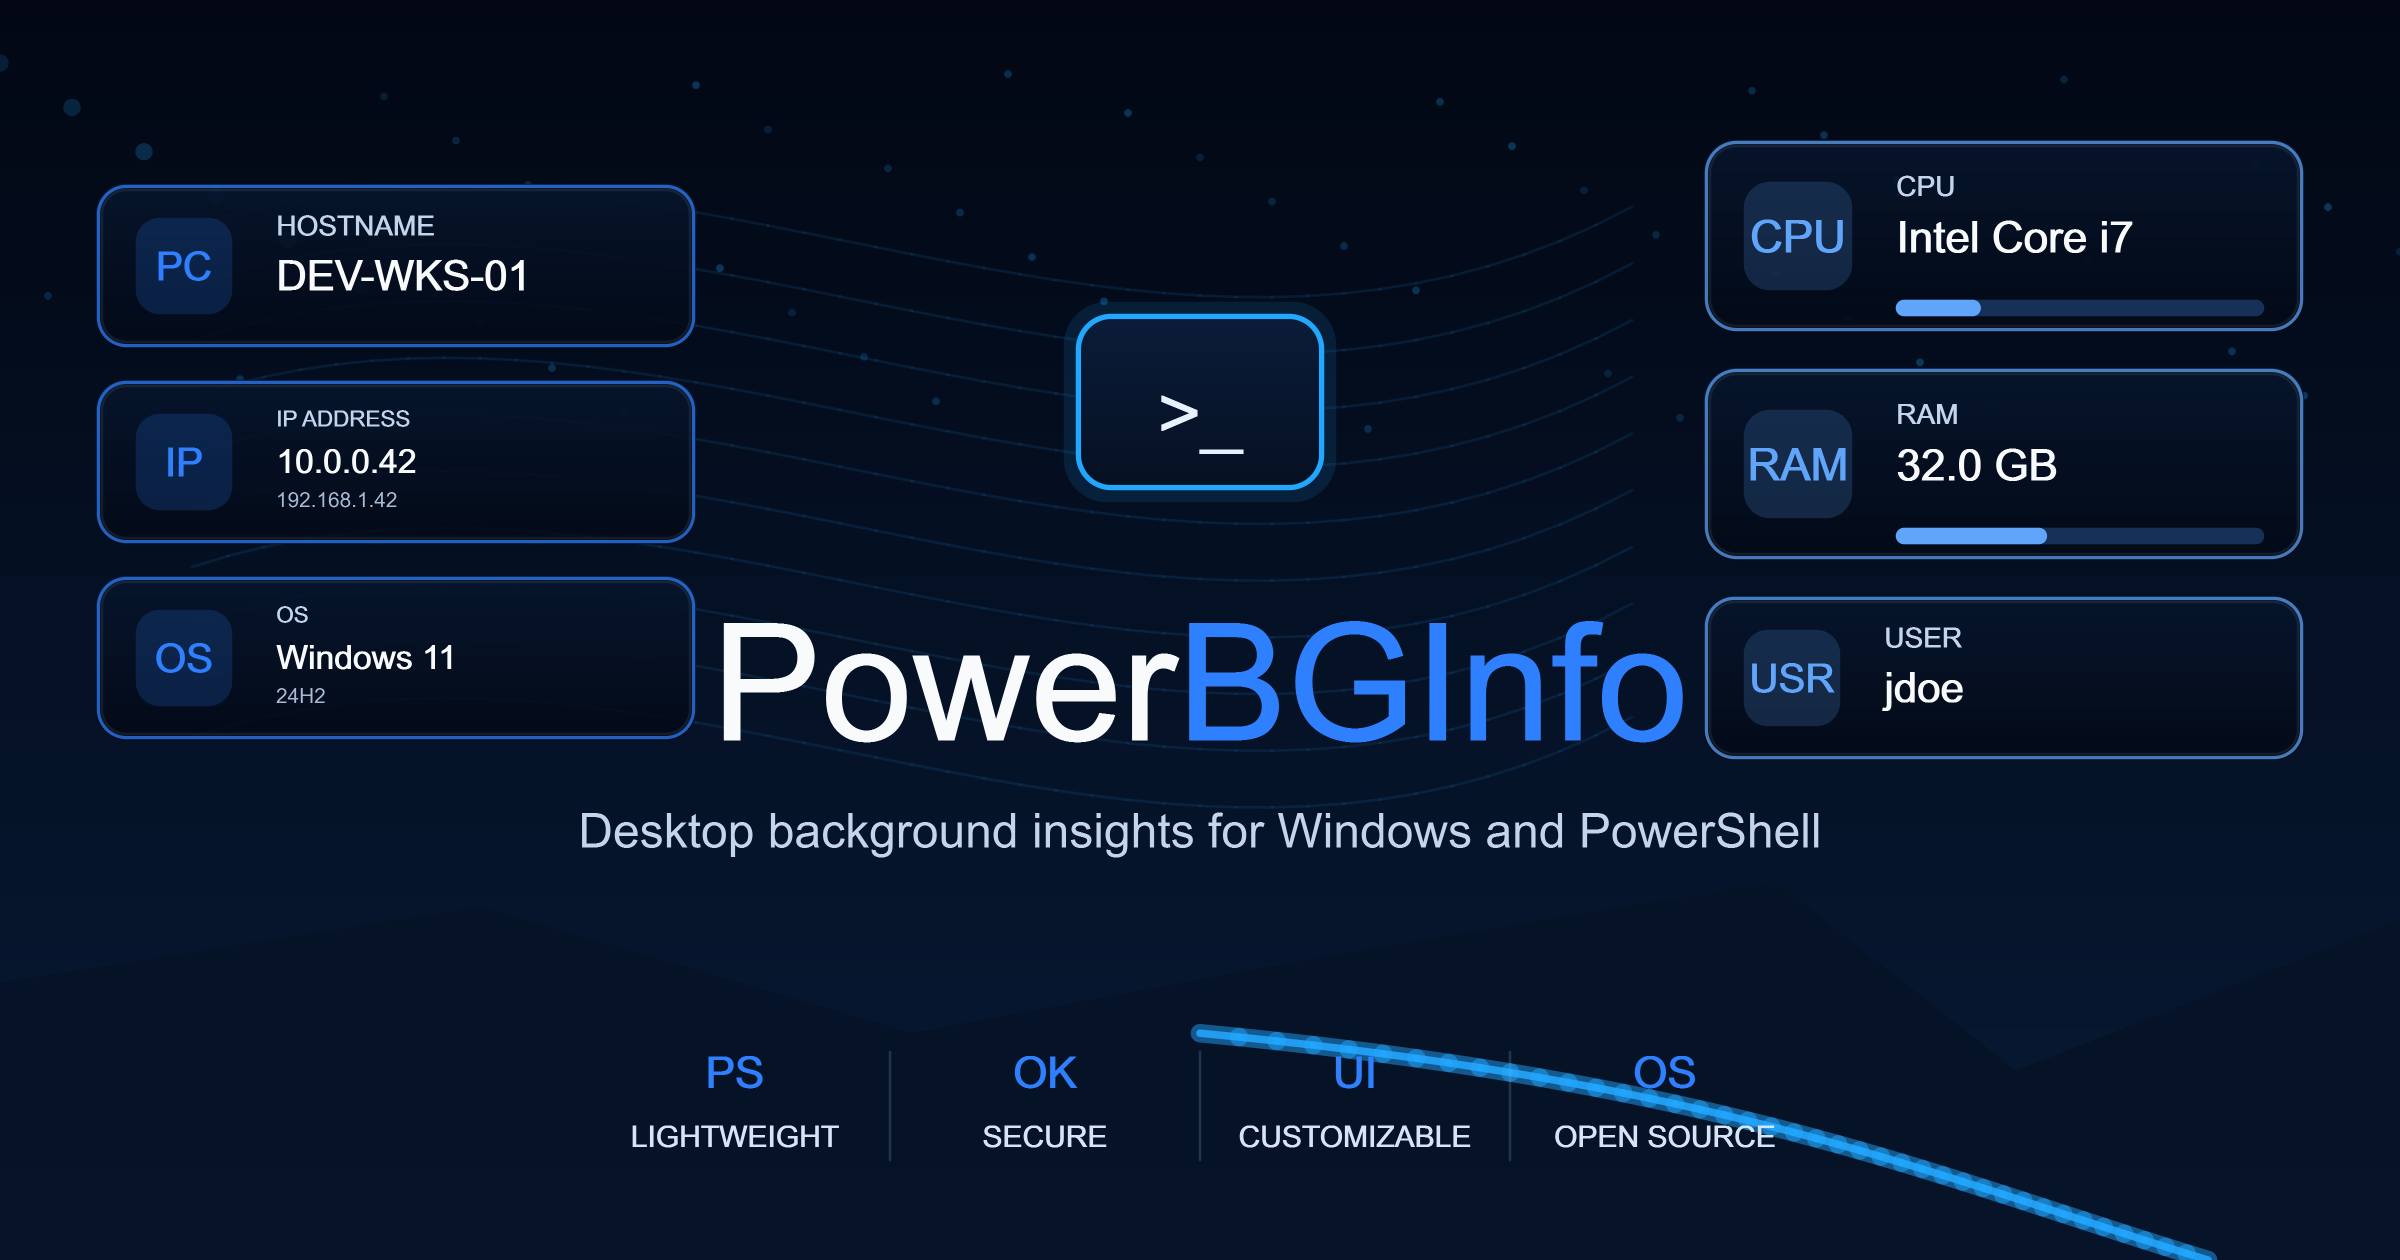
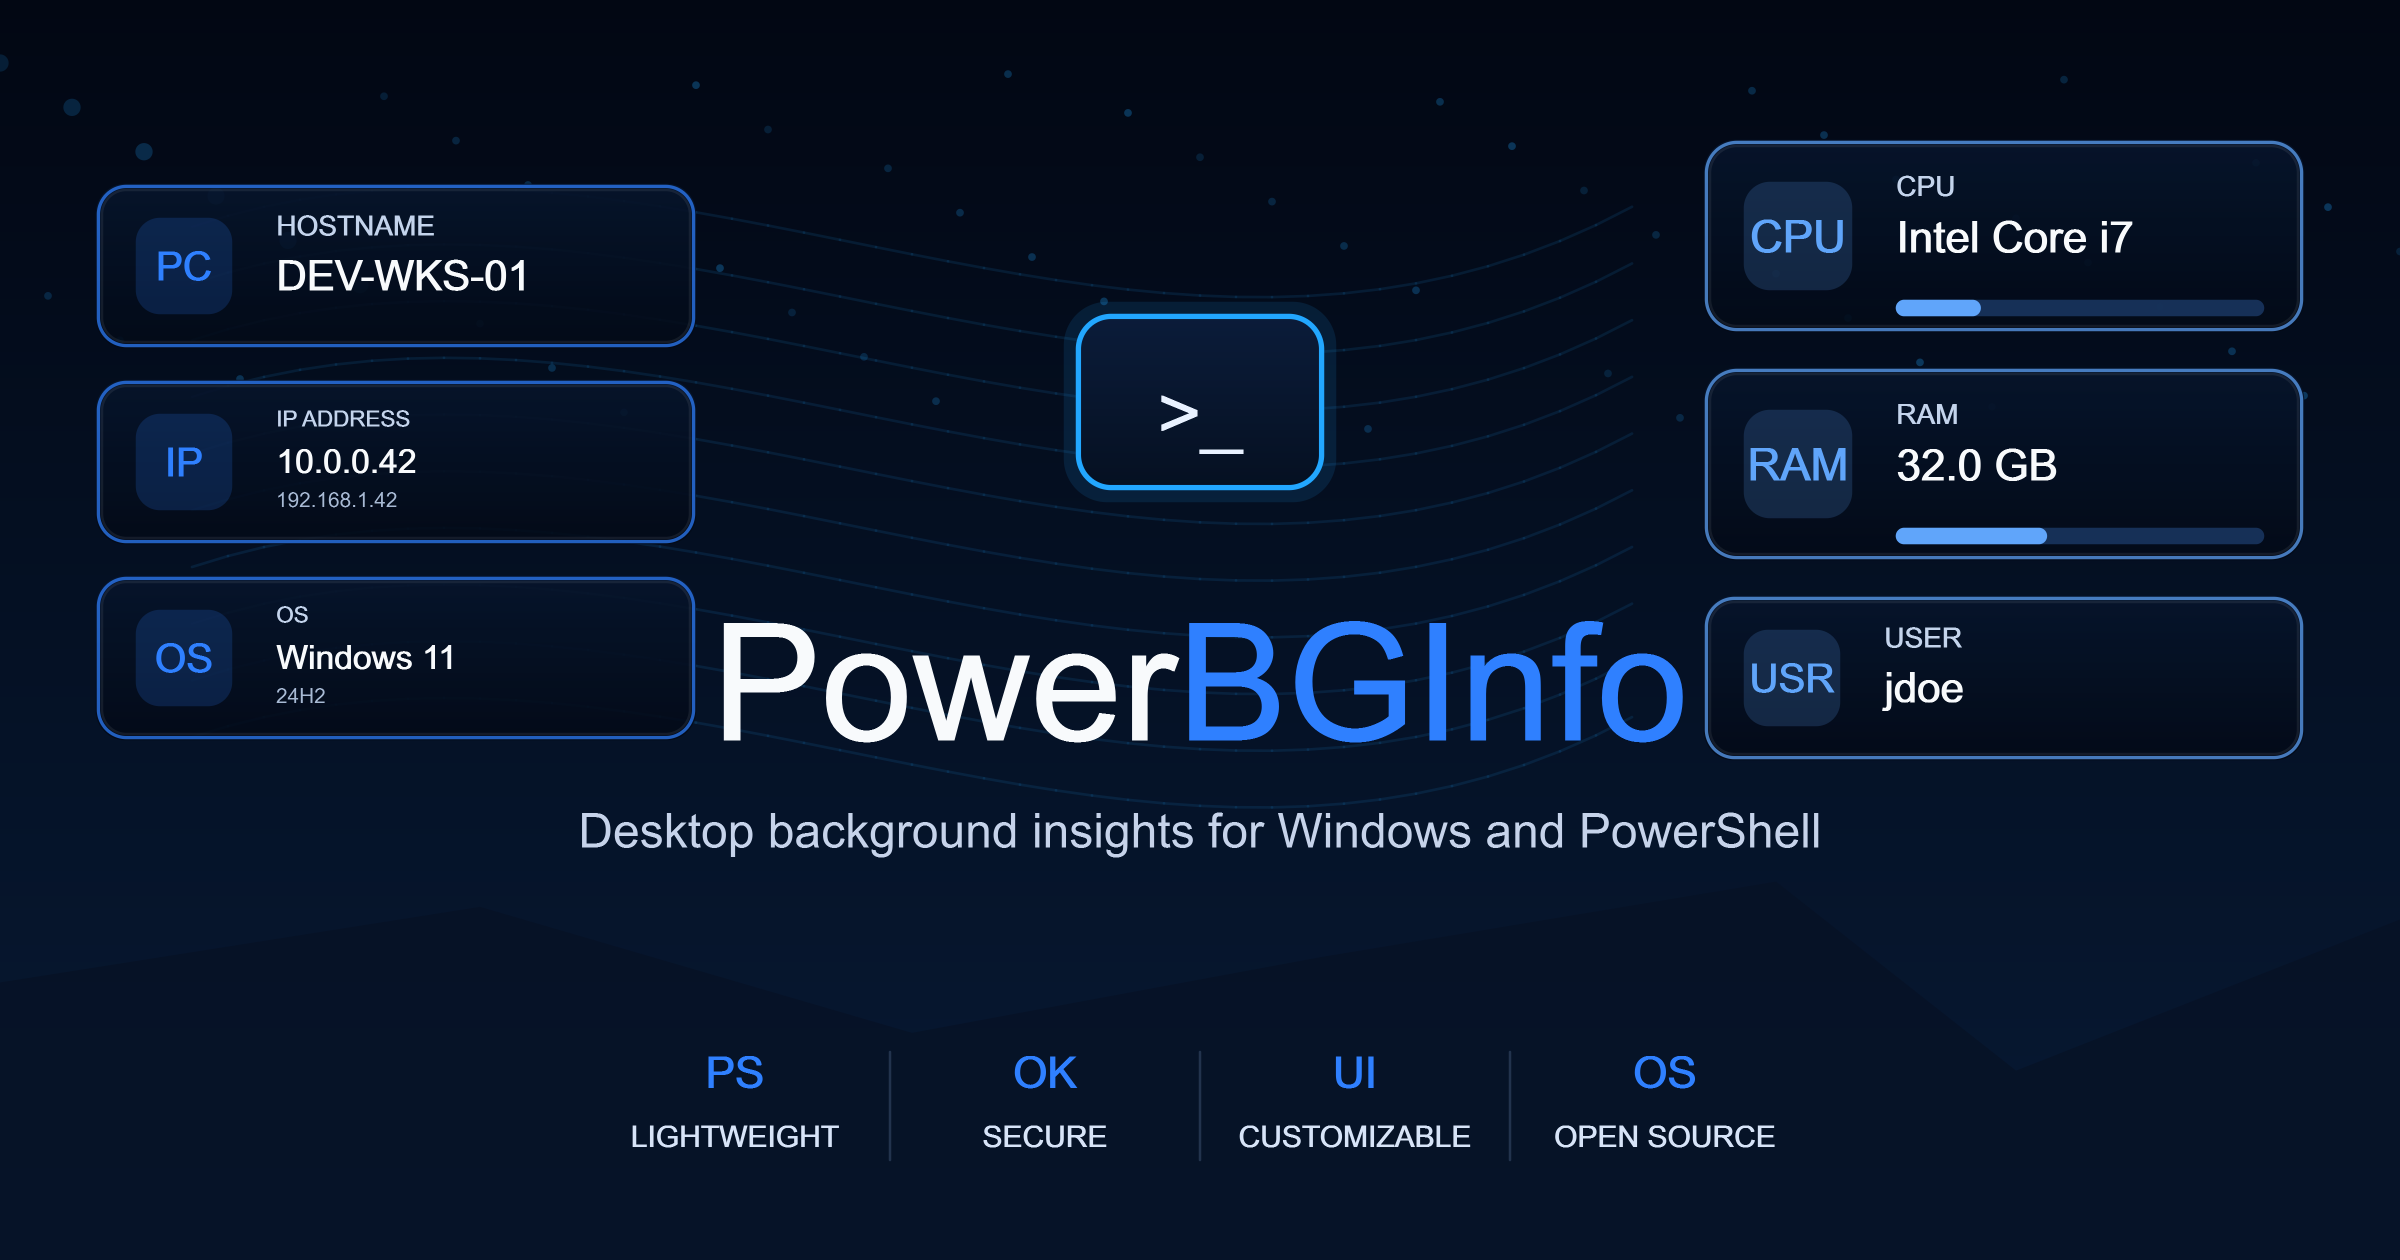
Remove decorative TechHorizon road glow (#106)

Changed region(s): [[0.5, 0.8048, 0.9375, 1.0]]

diff --git a/ChartForgeX/VisualCanvas/SvgVisualCanvasRenderer.cs b/ChartForgeX/VisualCanvas/SvgVisualCanvasRenderer.cs
@@ -130,15 +130,6 @@ public sealed class SvgVisualCanvasRenderer {
             .Attribute("d", "M 0 " + F(height * 0.78) + " C " + F(width * 0.20) + " " + F(height * 0.72) + ", " + F(width * 0.38) + " " + F(height * 0.82) + ", " + F(width * 0.55) + " " + F(height * 0.76) + " C " + F(width * 0.74) + " " + F(height * 0.70) + ", " + F(width * 0.84) + " " + F(height * 0.85) + ", " + F(width) + " " + F(height * 0.73) + " L " + F(width) + " " + F(height) + " L 0 " + F(height) + " Z")
             .Attribute("fill", theme.TechHorizonFill.ToCss())
             .EndEmptyElement().Line();
-        writer.StartElement("path")
-            .Attribute("data-cfx-role", "visual-canvas-road-glow")
-            .Attribute("d", "M " + F(width * 0.50) + " " + F(height * 0.82) + " C " + F(width * 0.72) + " " + F(height * 0.86) + ", " + F(width * 0.80) + " " + F(height * 0.93) + ", " + F(width * 0.92) + " " + F(height))
-            .Attribute("fill", "none")
-            .Attribute("stroke", accent.ToCss())
-            .Attribute("stroke-opacity", 0.76)
-            .Attribute("stroke-width", 5)
-            .Attribute("filter", "url(#" + id + "-soft-glow)")
-            .EndEmptyElement().Line();
         writer.EndElement().Line();
     }
 

diff --git a/ChartForgeX.Tests/SmokeTests/VisualCanvasTests.cs b/ChartForgeX.Tests/SmokeTests/VisualCanvasTests.cs
@@ -64,6 +64,8 @@ internal static partial class SmokeTests {
 
         var svg = canvas.ToSvg("visual-canvas-smoke");
         Assert(svg.Contains("data-cfx-role=\"visual-canvas-background\"", StringComparison.Ordinal), "VisualCanvas should render a background role in SVG.");
+        Assert(svg.Contains("data-cfx-role=\"visual-canvas-tech-backdrop\"", StringComparison.Ordinal) && svg.Contains("data-cfx-role=\"visual-canvas-horizon\"", StringComparison.Ordinal), "TechHorizon should retain its quiet star, contour, and horizon backdrop.");
+        Assert(!svg.Contains("visual-canvas-road-glow", StringComparison.Ordinal), "TechHorizon should keep its lower foreground clear instead of drawing a decorative road streak across content.");
         Assert(svg.Contains("data-cfx-role=\"visual-canvas-info-tile\"", StringComparison.Ordinal), "VisualCanvas should render info tile layers in SVG.");
         Assert(svg.Contains("data-cfx-role=\"visual-canvas-info-tile-mini-chart\"", StringComparison.Ordinal), "VisualCanvas should render info tile mini chart layers in SVG.");
         Assert(svg.Contains("data-cfx-role=\"visual-canvas-hero-title\"", StringComparison.Ordinal), "VisualCanvas should render multi-run hero titles in SVG.");

diff --git a/ChartForgeX/VisualCanvas/PngVisualCanvasRenderer.cs b/ChartForgeX/VisualCanvas/PngVisualCanvasRenderer.cs
@@ -84,8 +84,6 @@ public sealed class PngVisualCanvasRenderer {
             new ChartPoint(width, height)
         };
         canvas.FillPolygon(horizon, theme.TechHorizonFill);
-        DrawCurve(canvas, width * 0.50, height * 0.82, width * 0.72, height * 0.86, width * 0.80, height * 0.93, width * 0.92, height, accent.WithOpacity(0.48), 9);
-        DrawCurve(canvas, width * 0.50, height * 0.82, width * 0.72, height * 0.86, width * 0.80, height * 0.93, width * 0.92, height, accent.WithOpacity(0.88), 3.5);
     }
 
     private static void DrawText(RgbaCanvas canvas, double x, double y, double width, string text, double fontSize, ChartColor color, TextAlignment alignment, bool emphasized) {